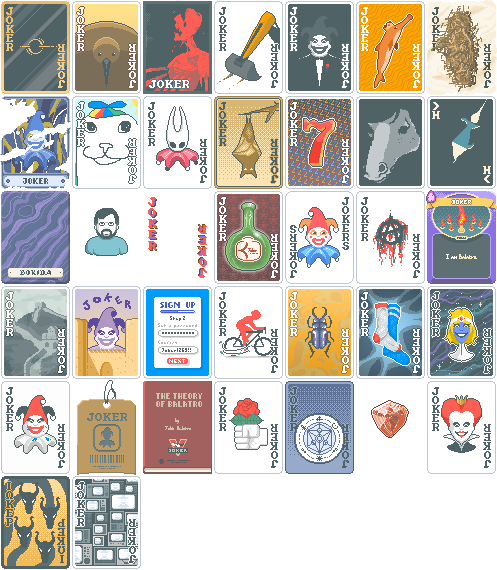
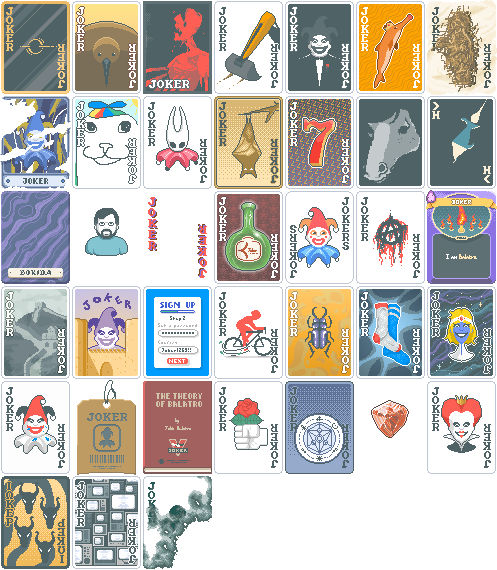
new joker
Decomposition

Changed region(s): [[0.2716, 0.8351, 0.4527, 1.0]]

diff --git a/README.md b/README.md
@@ -125,12 +125,17 @@ Sell this card to **Duplicate** rightmost Joker and add **Perishable** to it<br>
 ___
 
 ### Devotion
-After playing **7** different **poker hands**, sell this card to create **2 Auras**<br>
-*(Must have room, 0/7)* <br>
+After playing **7** different **poker hands**, sell this card to create **2 Negative Auras**<br>
+*(0/7)* <br>
 ___
 
 ### Anarchy
 On **final hand**, all played **non-scoring** cards become **Polychrome Wild** cards<br>
+___
+
+### Decomposition
+If played hand contains **4** or more **Club** cards, create a **Tarot** card and **decrease** rank of played cards by **1**<br>
+*(Minimum rank 2, must have room)*<br>
 ___
 
 # Rare
